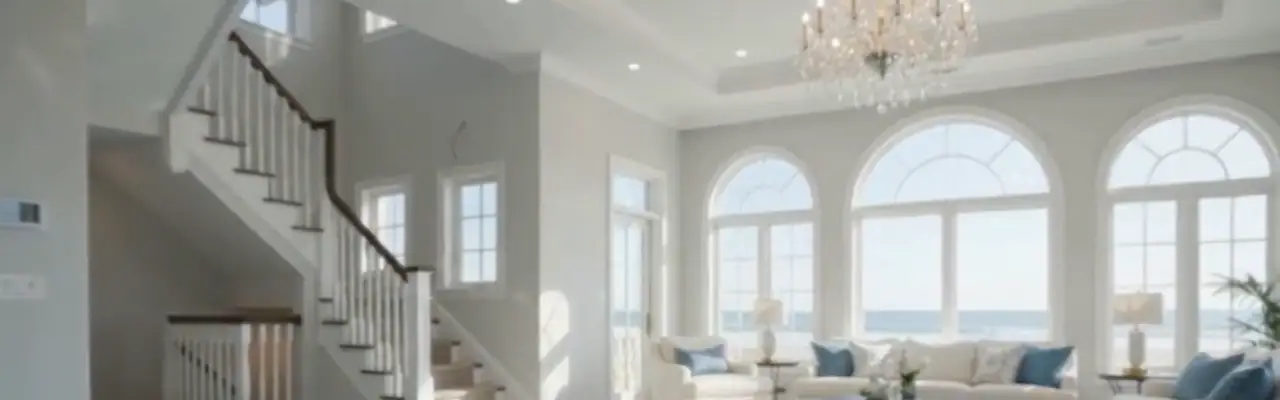
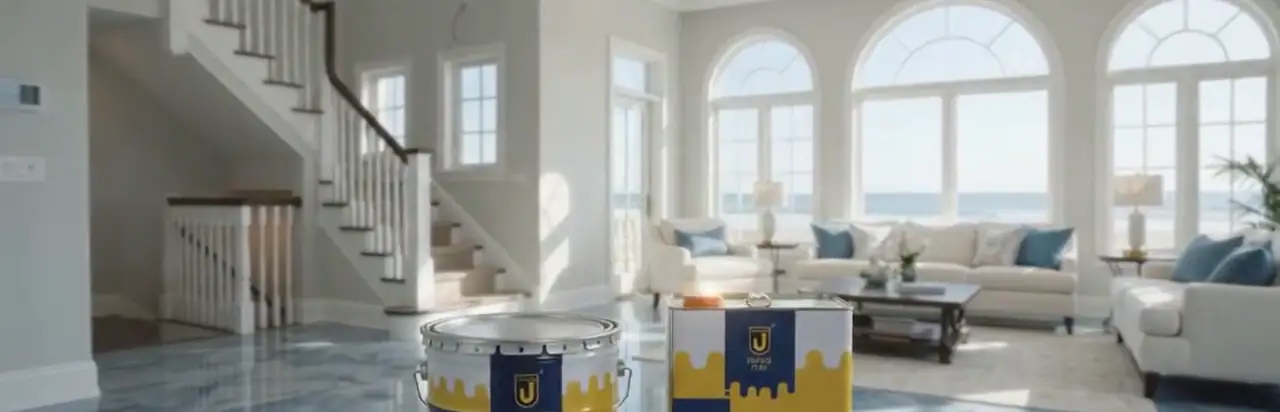
Images : bandeaux de pages recadrés sur le salon entier (fenêtres, escalier, canapé, sol)
Claude-Session: https://claude.ai/code/session_01Mhy2g7yiGnzpw4o1NQJZWS

diff --git a/frontend/site/src/styles/maquette.css b/frontend/site/src/styles/maquette.css
@@ -343,6 +343,10 @@
   .m-compte-formes { display: block; padding: 12px 20px 40px; background: var(--fond); }
   .m-compte-boite { width: 100%; }
   .m-langue-compte { top: 14px; right: 12px; }
+  .m-marque-claire { gap: 8px; }
+  .m-marque-claire img { width: 40px; height: 40px; }
+  .m-marque-claire small { display: none; } /* le sous-titre chevauchait le sélecteur de langue */
+  .m-langue-compte button, .m-langue-compte select { padding-left: 10px; padding-right: 10px; }
   .m-retour-lien { display: none; }
   .m-retour-accueil-tel { display: inline-flex; align-items: center; min-height: 44px; margin-bottom: 8px; font-size: 13px; font-weight: 600; letter-spacing: 0.1em; text-transform: uppercase; text-decoration: none; }
   .m-deux { grid-template-columns: 1fr; }
@@ -385,3 +389,4 @@
   [data-vue='produit'] [data-vt='entete'], [data-vue='produit'] [data-vt='onglets'], [data-vue='produit'] [data-pied] { display: none; }
   body:has([data-vue='produit']) { padding-bottom: 0; }
 }
+@media (max-width: 360px) { .m-bascule { gap: 14px; } .m-bascule a { font-size: 16px; white-space: nowrap; } }

diff --git a/frontend/site/src/modules/catalogue/CataloguePage.test.jsx b/frontend/site/src/modules/catalogue/CataloguePage.test.jsx
@@ -50,8 +50,7 @@ describe('CataloguePage', () => {
     expect(image).toHaveAttribute('src', 'https://api.test/media/p1.webp');
     const seconde = screen.getByRole('link', { name: /Produit 2/ });
     expect(within(seconde).getByText(/12\s500 FCFA \/ m²/)).toBeInTheDocument();
-    expect(seconde.querySelector('img')).toBeNull(); // sans image : carré neutre portant la référence
-    expect(within(seconde).getByText('YD-2')).toBeInTheDocument();
+    expect(seconde.querySelector('.ref-neutre')).toHaveTextContent('Produit 2'); // carré neutre portant le nom
     // Familles : liste (comme la maquette), noms sans nombre de produits
     expect(screen.getByRole('button', { name: 'Sols autolissants' })).toBeInTheDocument();
     expect(screen.getByRole('button', { name: 'Toutes les familles' })).toHaveAttribute('aria-pressed', 'true');

diff --git a/frontend/site/src/modules/catalogue/composants/CarteProduit.jsx b/frontend/site/src/modules/catalogue/composants/CarteProduit.jsx
@@ -17,7 +17,7 @@ export default function CarteProduit({ produit, niveauTitre = 3 }) {
       <div className="img">
         {produit.image?.url
           ? <ImageMedia image={produit.image} alt="" largeur={640} hauteur={640} style={nom} />
-          : <span className="ref-neutre" aria-hidden="true">{produit.reference || produit.nom?.slice(0, 2)}</span>}
+          : <span className="ref-neutre" aria-hidden="true">{produit.nom || produit.reference}</span>}
       </div>
       <Titre>{produit.nom}</Titre>
       <p>{prix(produit.prix, produit.unite_prix)}</p>

diff --git a/backend/apps/catalogue/management/commands/charger_catalogue_reference.py b/backend/apps/catalogue/management/commands/charger_catalogue_reference.py
@@ -12,6 +12,8 @@ Fusion avec le catalogue de la maquette du propriétaire (décision du propriét
   autolissant ») ; un nom déjà modifié par l'équipe n'est jamais touché ;
 - sept produits de la maquette sont ajoutés SANS référence (détection par nom nettoyé, sans tenir compte de la casse ni des espaces), en
   ligne, sans prix ni image ni texte ;
+- l'ordre d'affichage (`ordre` de 1 à 16) place d'abord les 10 produits de la maquette ; sur une base déjà chargée,
+  l'ordre d'un produit n'est changé que s'il a encore sa valeur d'origine ;
 - seul texte repris de la maquette : accroche et description de YD-500, posées seulement si ces champs sont vides.
 
 ATTENTION : la famille et les usages (maison, industrie, entreprise, extérieur) de ces sept produits sont des valeurs
@@ -180,6 +182,10 @@ PRODUITS_MAQUETTE = [
     ("Sol à motifs", 7, "ME", False, {"en": "Patterned floor", "zh": "图案地坪",
                                       "de": "Gemusterter Boden", "ja": "模様入り床"}),
 ]
+# Ordre d'affichage (champ `ordre`, de 1 à 16) : d'abord les produits de la maquette, puis les autres produits du cahier.
+# Clé : référence (produits du cahier) ou nom (produits de la maquette sans référence).
+ORDRE_AFFICHAGE = ["YD-500", "YD-306", "YD-518", *(nom for nom, *_ in PRODUITS_MAQUETTE),
+                   "YD-103", "YD-104", "YD-205", "YD-106W", "YD-206W", "YD-306W"]
 USAGES = {"M": "pour_maison", "I": "pour_industrie", "E": "pour_entreprise", "X": "pour_exterieur"}
 
 
@@ -245,6 +251,8 @@ class Command(BaseCommand):
 
         produits_crees = renommes = textes = 0
         for ordre, (reference, index, nom, accroche, traductions, habitat) in enumerate(PRODUITS):
+            ordre_defaut = ordre  # valeur d'origine (avant la mise en ordre de la maquette)
+            ordre = ORDRE_AFFICHAGE.index(reference) + 1
             produit = Produit.objects.filter(reference__iexact=reference).first()
             if produit is None:
                 produit = Produit.objects.create(
@@ -255,6 +263,9 @@ class Command(BaseCommand):
                 produits_crees += 1
             else:
                 champs = []
+                if produit.ordre == ordre_defaut and ordre_defaut != ordre:  # jamais un ordre changé par l'équipe
+                    produit.ordre = ordre
+                    champs.append("ordre")
                 if _mettre_a_jour_noms(produit):
                     renommes += 1
                     champs += ["nom", "traductions"]
@@ -266,11 +277,20 @@ class Command(BaseCommand):
 
         maquette_crees = 0
         for position, (nom, index, usages, une, noms) in enumerate(PRODUITS_MAQUETTE):
-            if any(_normaliser(existant) == _normaliser(nom) for existant in Produit.objects.values_list("nom", flat=True)):
+            existants = list(Produit.objects.filter(reference="").values_list("pk", "nom", "ordre"))
+            ordre = ORDRE_AFFICHAGE.index(nom) + 1
+            trouve = [(pk, o) for pk, n, o in existants if _normaliser(n) == _normaliser(nom)]
+            if not trouve and any(_normaliser(n) == _normaliser(nom)
+                                  for n in Produit.objects.values_list("nom", flat=True)):
+                continue
+            if trouve:  # déjà chargé : ordre d'origine remplacé seulement s'il est intact
+                pk, courant = trouve[0]
+                if courant == len(PRODUITS) + position and courant != ordre:
+                    Produit.objects.filter(pk=pk).update(ordre=ordre)
                 continue
             Produit.objects.create(
                 famille=familles[index], reference="", nom=nom, traductions={c: {"nom": n} for c, n in noms.items()},
-                a_la_une=une, en_ligne=True, prix=None, ordre=len(PRODUITS) + position,
+                a_la_une=une, en_ligne=True, prix=None, ordre=ordre,
                 **{champ: lettre in usages for lettre, champ in USAGES.items()},
             )
             maquette_crees += 1

diff --git a/backend/apps/catalogue/tests/test_services.py b/backend/apps/catalogue/tests/test_services.py
@@ -155,3 +155,48 @@ class FusionCatalogueMaquetteTests(TestCase):
         self.charger()
         self.assertEqual(Produit.objects.count(), 16)
         self.assertEqual(Produit.objects.filter(nom__icontains="motifs").count(), 1)
+
+
+class OrdreAffichageCatalogueTests(TestCase):
+    ATTENDU = ["Sol autolissant époxy", "Sable coloré autolissant", "Terrazzo époxy", "Finition époxy lisse",
+               "Finition époxy mate", "Finition antidérapante", "Peinture de sol anti-UV",
+               "Finition haute résistance", "Finition anticorrosion", "Sol à motifs"]
+    CAHIER = ["YD-103", "YD-104", "YD-205", "YD-106W", "YD-206W", "YD-306W"]
+
+    def charger(self):
+        call_command("charger_catalogue_reference", stdout=StringIO())
+
+    def test_ordre_a_la_creation_et_api_publique(self):
+        self.charger()
+        self.assertEqual(sorted(Produit.objects.values_list("ordre", flat=True)), list(range(1, 17)))
+        noms = list(Produit.objects.values_list("nom", flat=True))
+        self.assertEqual(noms[:10], self.ATTENDU)
+        self.assertEqual([p.reference for p in Produit.objects.all()[10:]], self.CAHIER)
+        donnees = self.client.get("/api/catalogue/produits/", {"taille": 10}).data
+        self.assertEqual([p["nom"] for p in donnees["results"]], self.ATTENDU)
+        self.assertEqual(donnees["count"], 16)
+
+    def test_base_deja_chargee_ordre_d_origine_remplace_ordre_d_equipe_conserve(self):
+        self.charger()
+        # ancien ordre par défaut (cahier : index 0 à 8, maquette : 9 à 15)
+        anciens = {"YD-103": 0, "YD-104": 1, "YD-205": 2, "YD-500": 3, "YD-306": 4, "YD-518": 5, "YD-106W": 6,
+                   "YD-206W": 7, "YD-306W": 8}
+        for reference, ordre in anciens.items():
+            Produit.objects.filter(reference=reference).update(ordre=ordre)
+        for position, nom in enumerate(["Finition époxy lisse", "Finition époxy mate", "Finition antidérapante",
+                                        "Peinture de sol anti-UV", "Finition haute résistance",
+                                        "Finition anticorrosion", "Sol à motifs"]):
+            Produit.objects.filter(nom=nom).update(ordre=9 + position)
+        Produit.objects.filter(reference="YD-518").update(ordre=99)  # ordre choisi par l'équipe
+        Produit.objects.filter(nom="Sol à motifs").update(ordre=42)
+        self.charger()
+        noms = list(Produit.objects.values_list("nom", flat=True))
+        self.assertEqual(Produit.objects.get(reference="YD-500").ordre, 1)
+        self.assertEqual(Produit.objects.get(reference="YD-518").ordre, 99)
+        self.assertEqual(Produit.objects.get(nom="Sol à motifs").ordre, 42)
+        self.assertEqual(Produit.objects.get(reference="YD-103").ordre, 11)
+        self.assertEqual(Produit.objects.get(nom="Finition anticorrosion").ordre, 9)
+        self.charger()  # idempotent
+        self.assertEqual(Produit.objects.get(reference="YD-518").ordre, 99)
+        self.assertEqual(Produit.objects.count(), 16)
+        self.assertTrue(noms)
